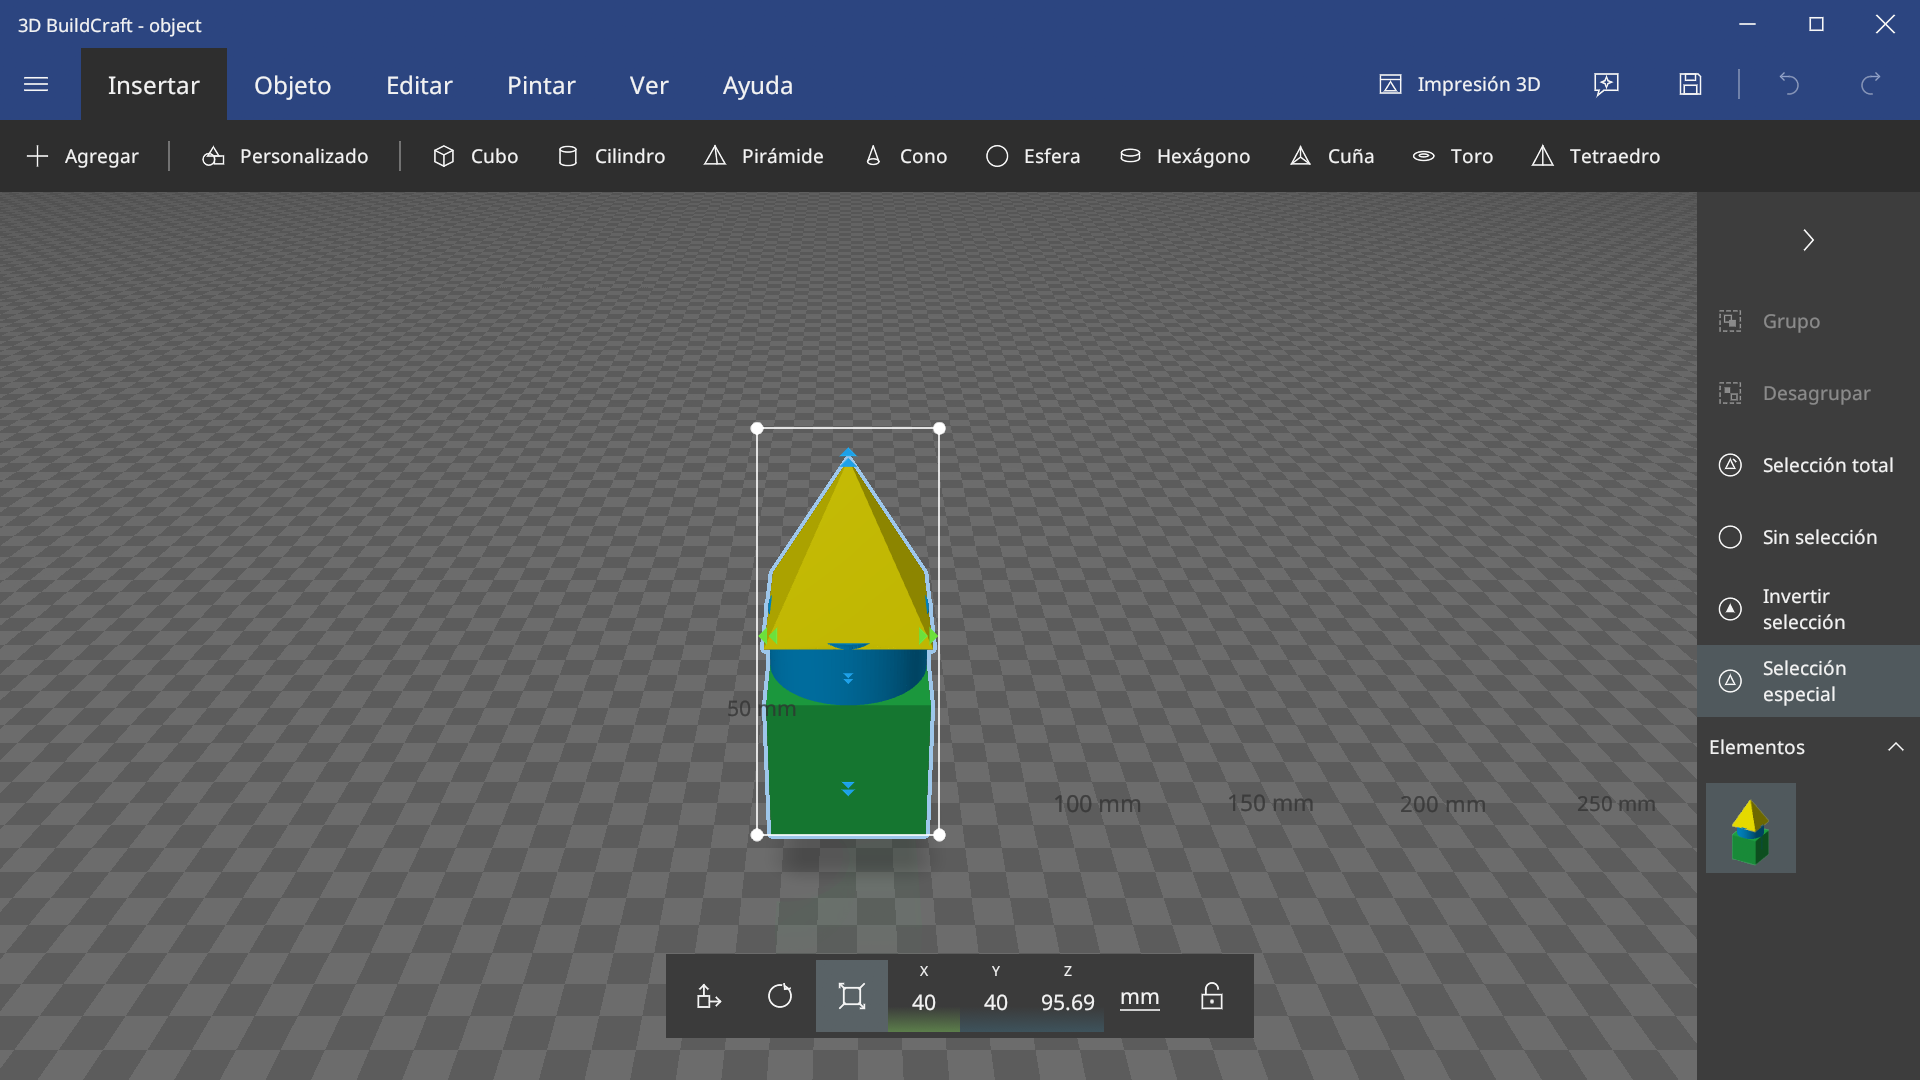
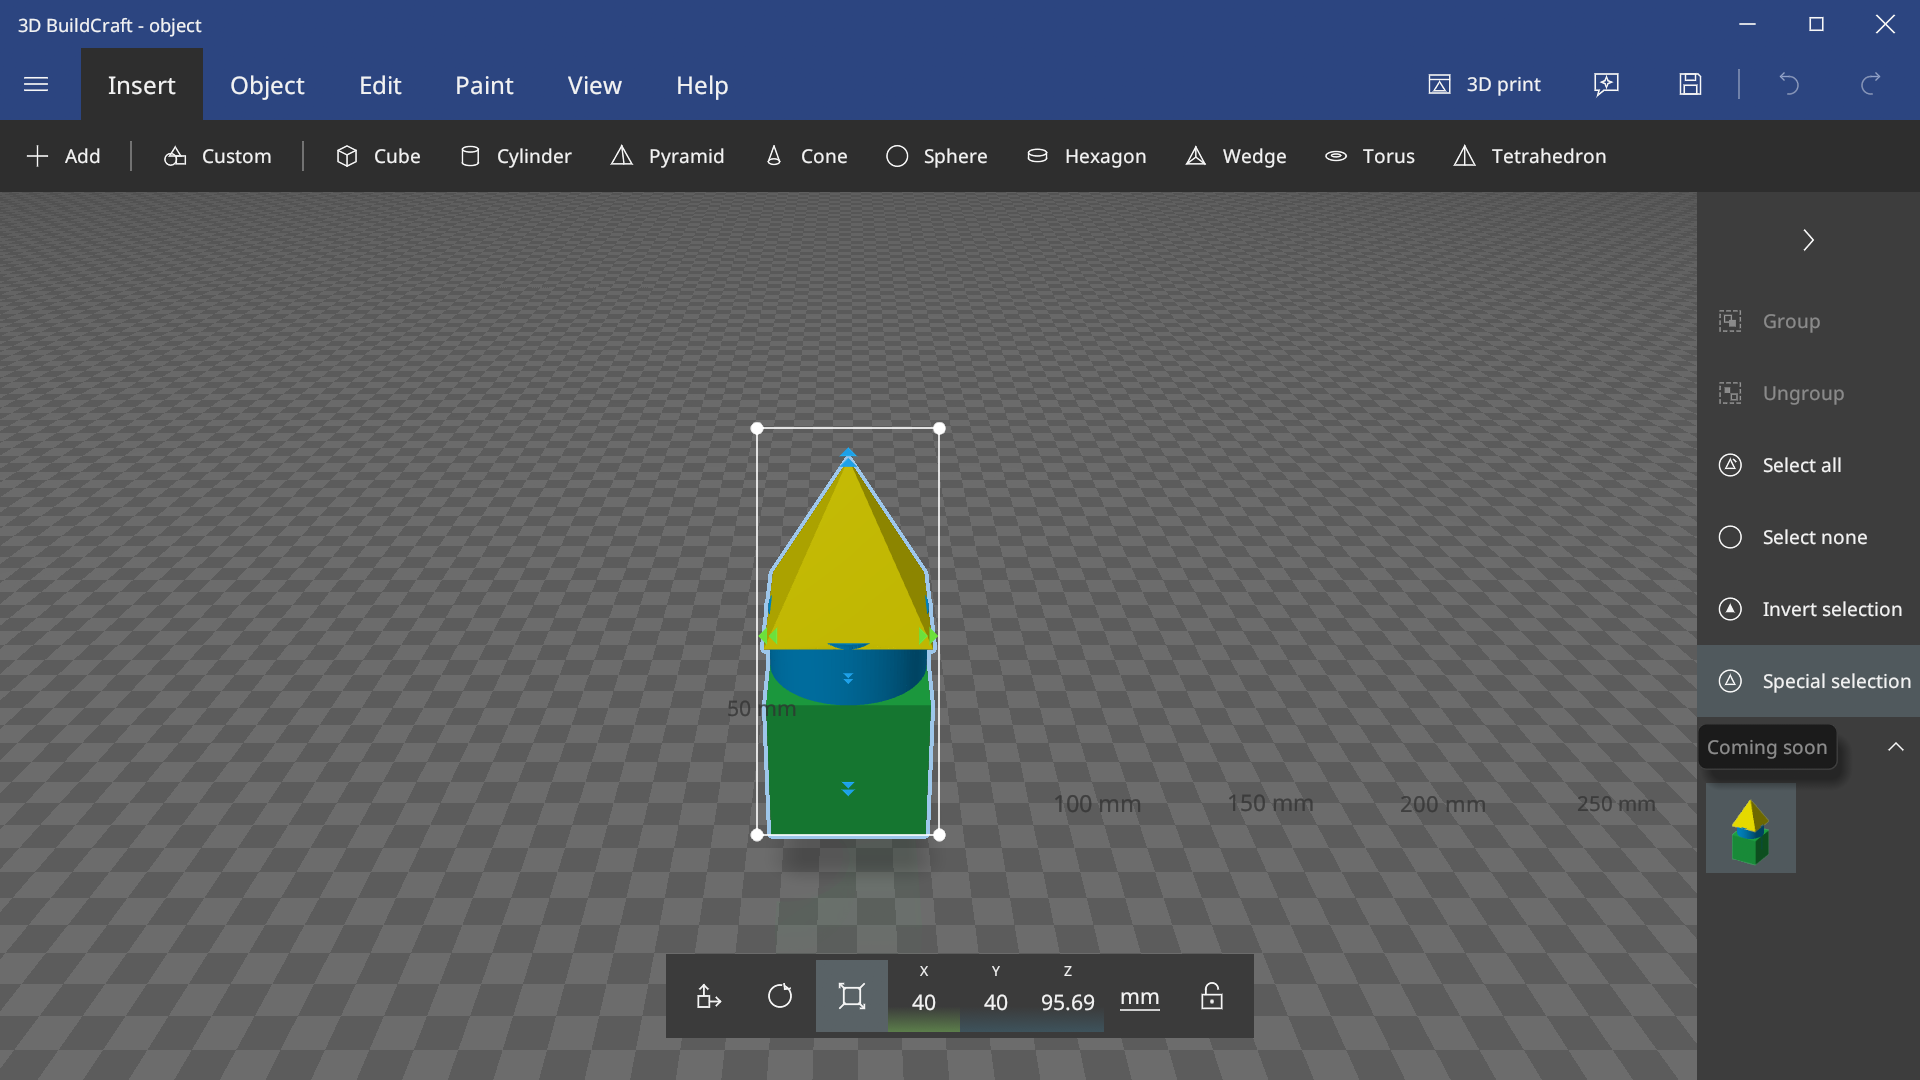
Docs: English screenshots with English file names

diff --git a/README.md b/README.md
@@ -2,12 +2,12 @@
 
 Build, repair, paint and prepare 3D models for printing. A Rust (egui + wgpu) desktop app for Windows and Linux that looks and works like Microsoft 3D Builder: its own title bar, tabs, ribbon, tool bars, side menu, selection strip and bottom bar.
 
-![Edit tab](docs/screenshots/editar.png)
+![Edit tab](docs/screenshots/edit.png)
 
 | | |
 |---|---|
-| ![Texture tool](docs/screenshots/textura.png) | ![3D print: printer](docs/screenshots/impresion-3d.png) |
-| ![Emboss](docs/screenshots/relieve.png) | ![AI assistant](docs/screenshots/asistente-chat.png) |
+| ![Texture tool](docs/screenshots/texture.png) | ![3D print: printer](docs/screenshots/print-printer.png) |
+| ![Emboss](docs/screenshots/emboss.png) | ![AI assistant](docs/screenshots/assistant-chat.png) |
 
 ## Download
 
@@ -94,7 +94,7 @@ Packages are built locally with the scripts in `packaging/`:
 The window can save itself as a PNG and quit, which is how the pictures in `docs/screenshots/` are made:
 
 ```bash
-cargo run --release -- model.3mf --select-all --lang es --size 1920x1080 --zoom 1.5 --tab edit --screenshot shot.png
+cargo run --release -- model.3mf --select-all --lang en --size 1920x1080 --zoom 1.5 --tab edit --screenshot shot.png
 ```
 
 Options that open a given state:

diff --git a/docs/dev/log/2026-11-01.md b/docs/dev/log/2026-11-01.md
@@ -14,4 +14,4 @@ Releases 0.1.8 to 0.1.12, all pre-releases from `development`. New work lands on
   - One drop-down component everywhere (list below the field, without the current choice); a clear × in focused text fields; the scene's colour list cached instead of rebuilt each frame.
   - AppImage package (glibc 2.31 via cargo-zigbuild). Packages are built locally with the scripts in `packaging/`.
   - Hotfix: the AI assistant button stays in the top bar when the assistant is off and opens on its Settings tab.
-- State: 329 tests pass; fmt and clippy clean. Screenshots in `docs/screenshots/` retaken for this state.
+- State: 329 tests pass; fmt and clippy clean. Screenshots in `docs/screenshots/` retaken for this state, in English and with English file names, like the docs.
